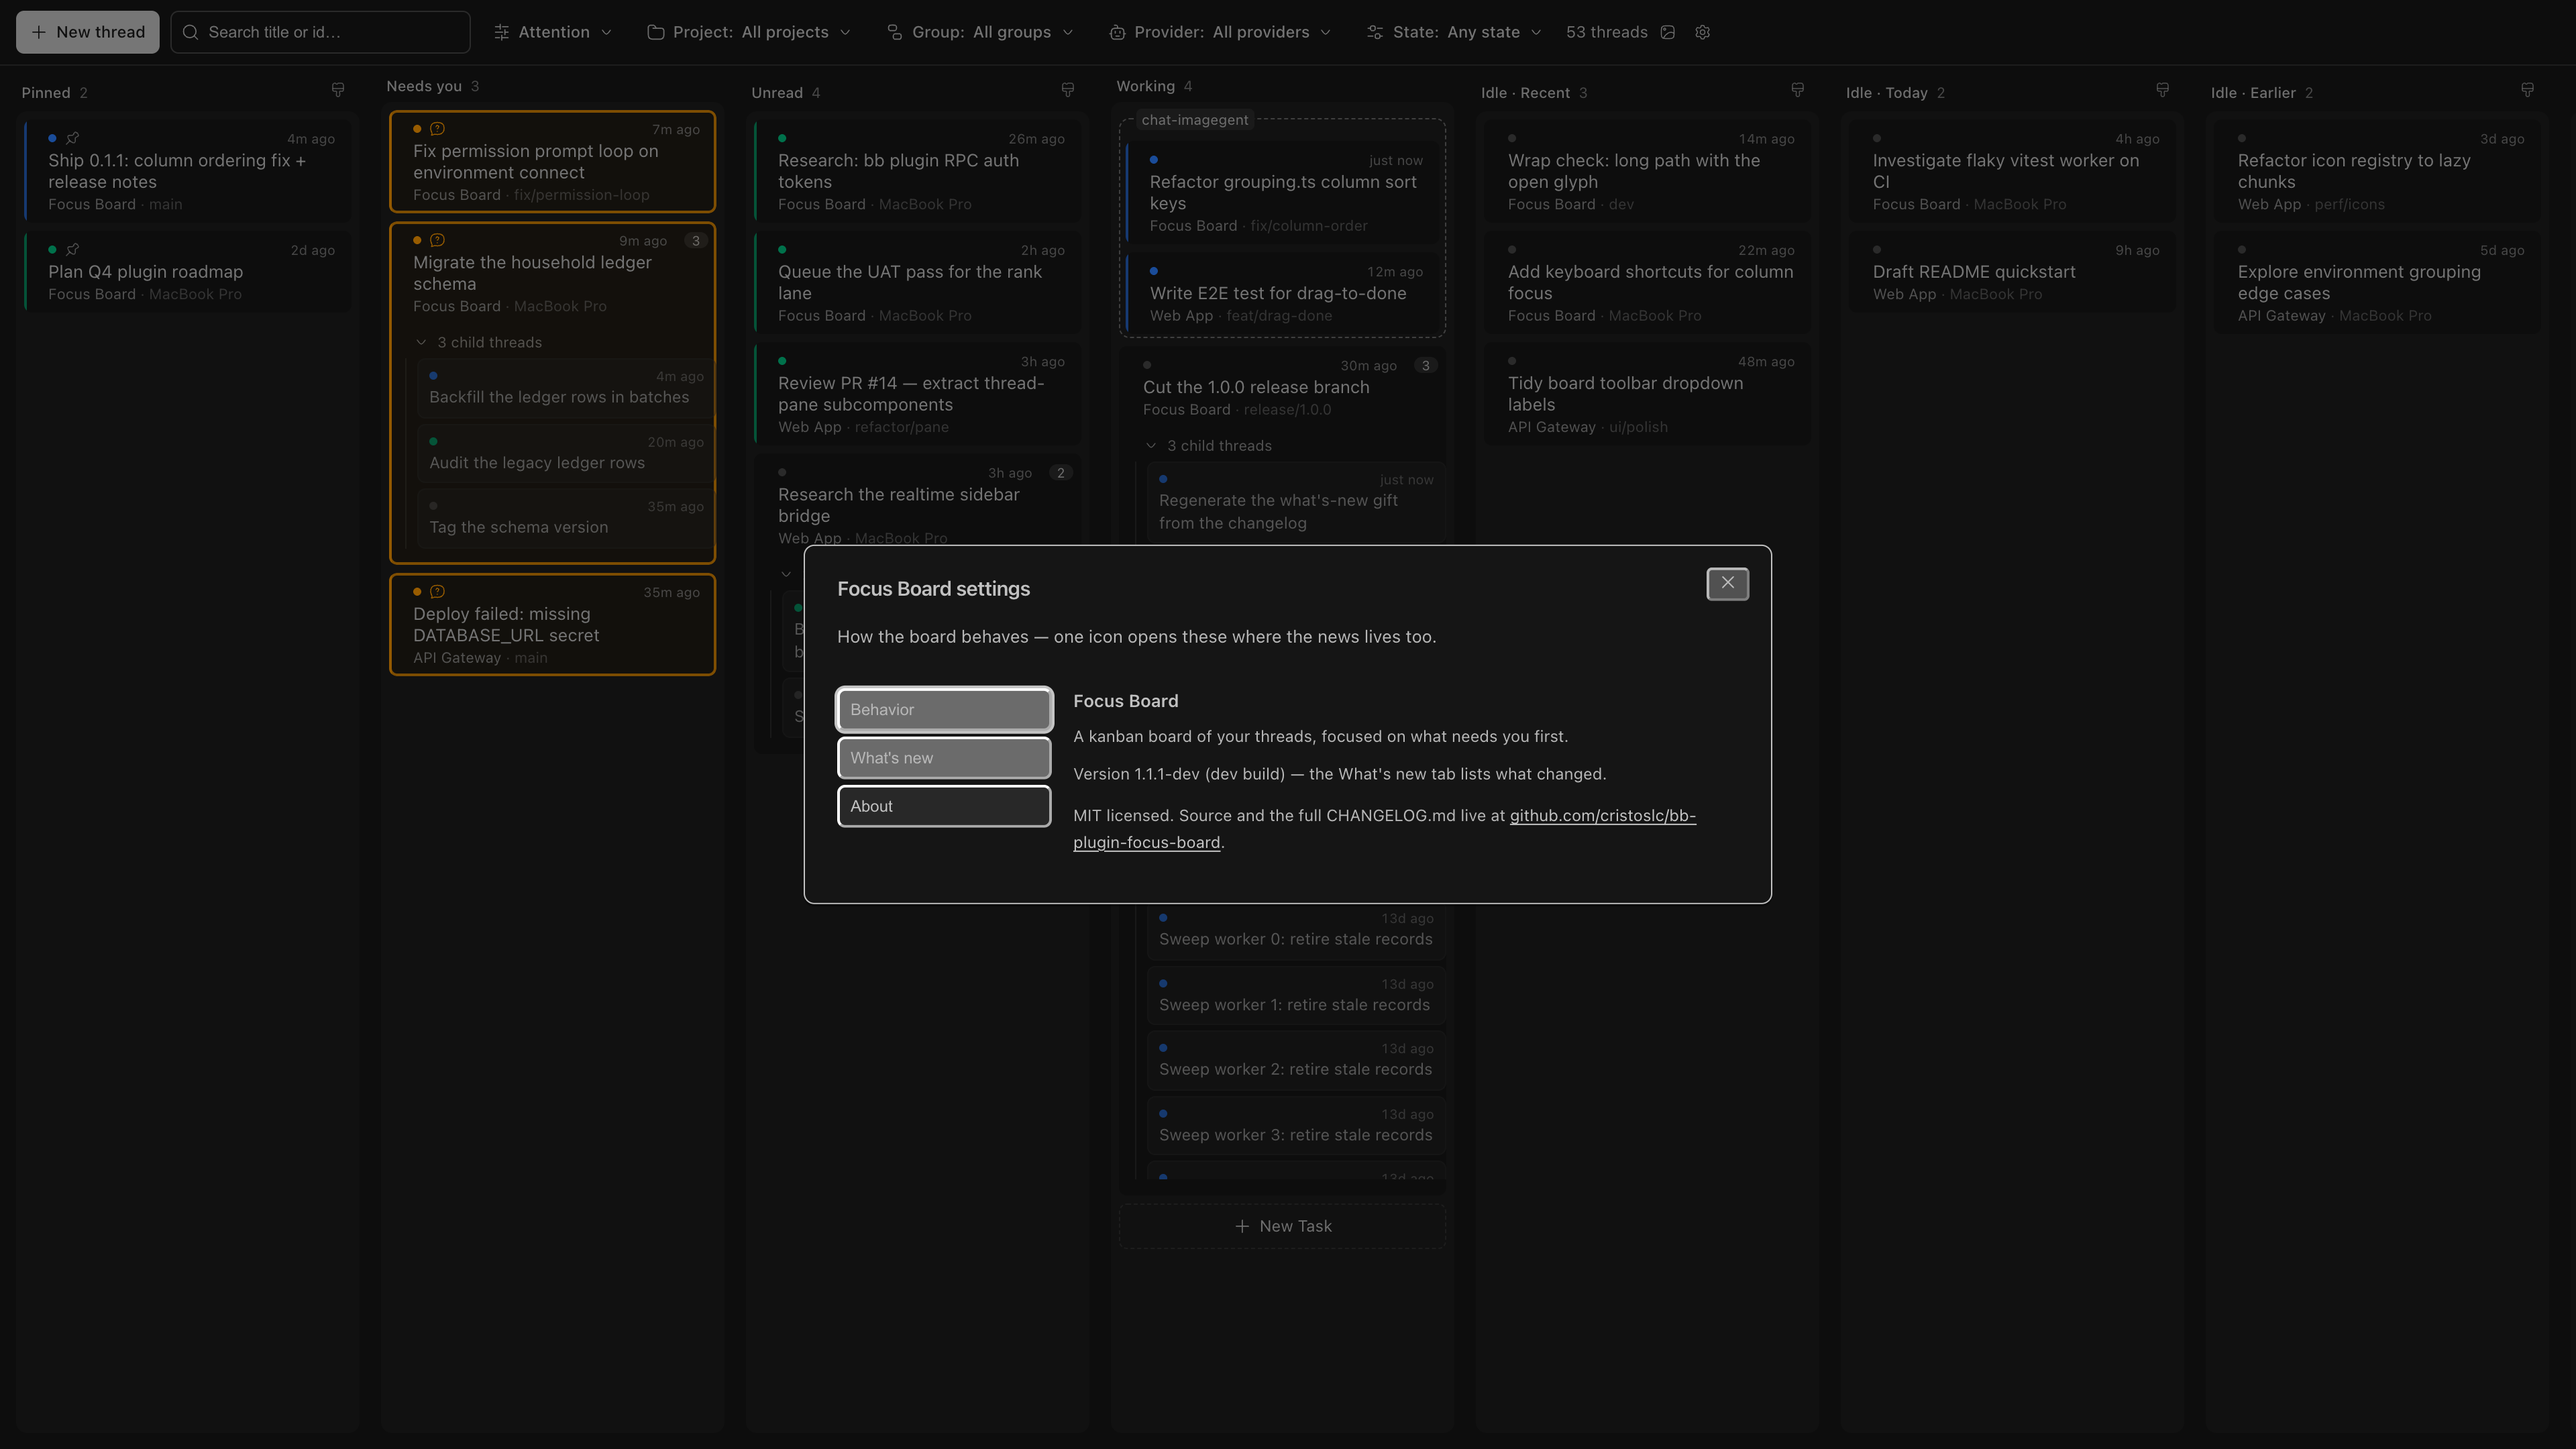
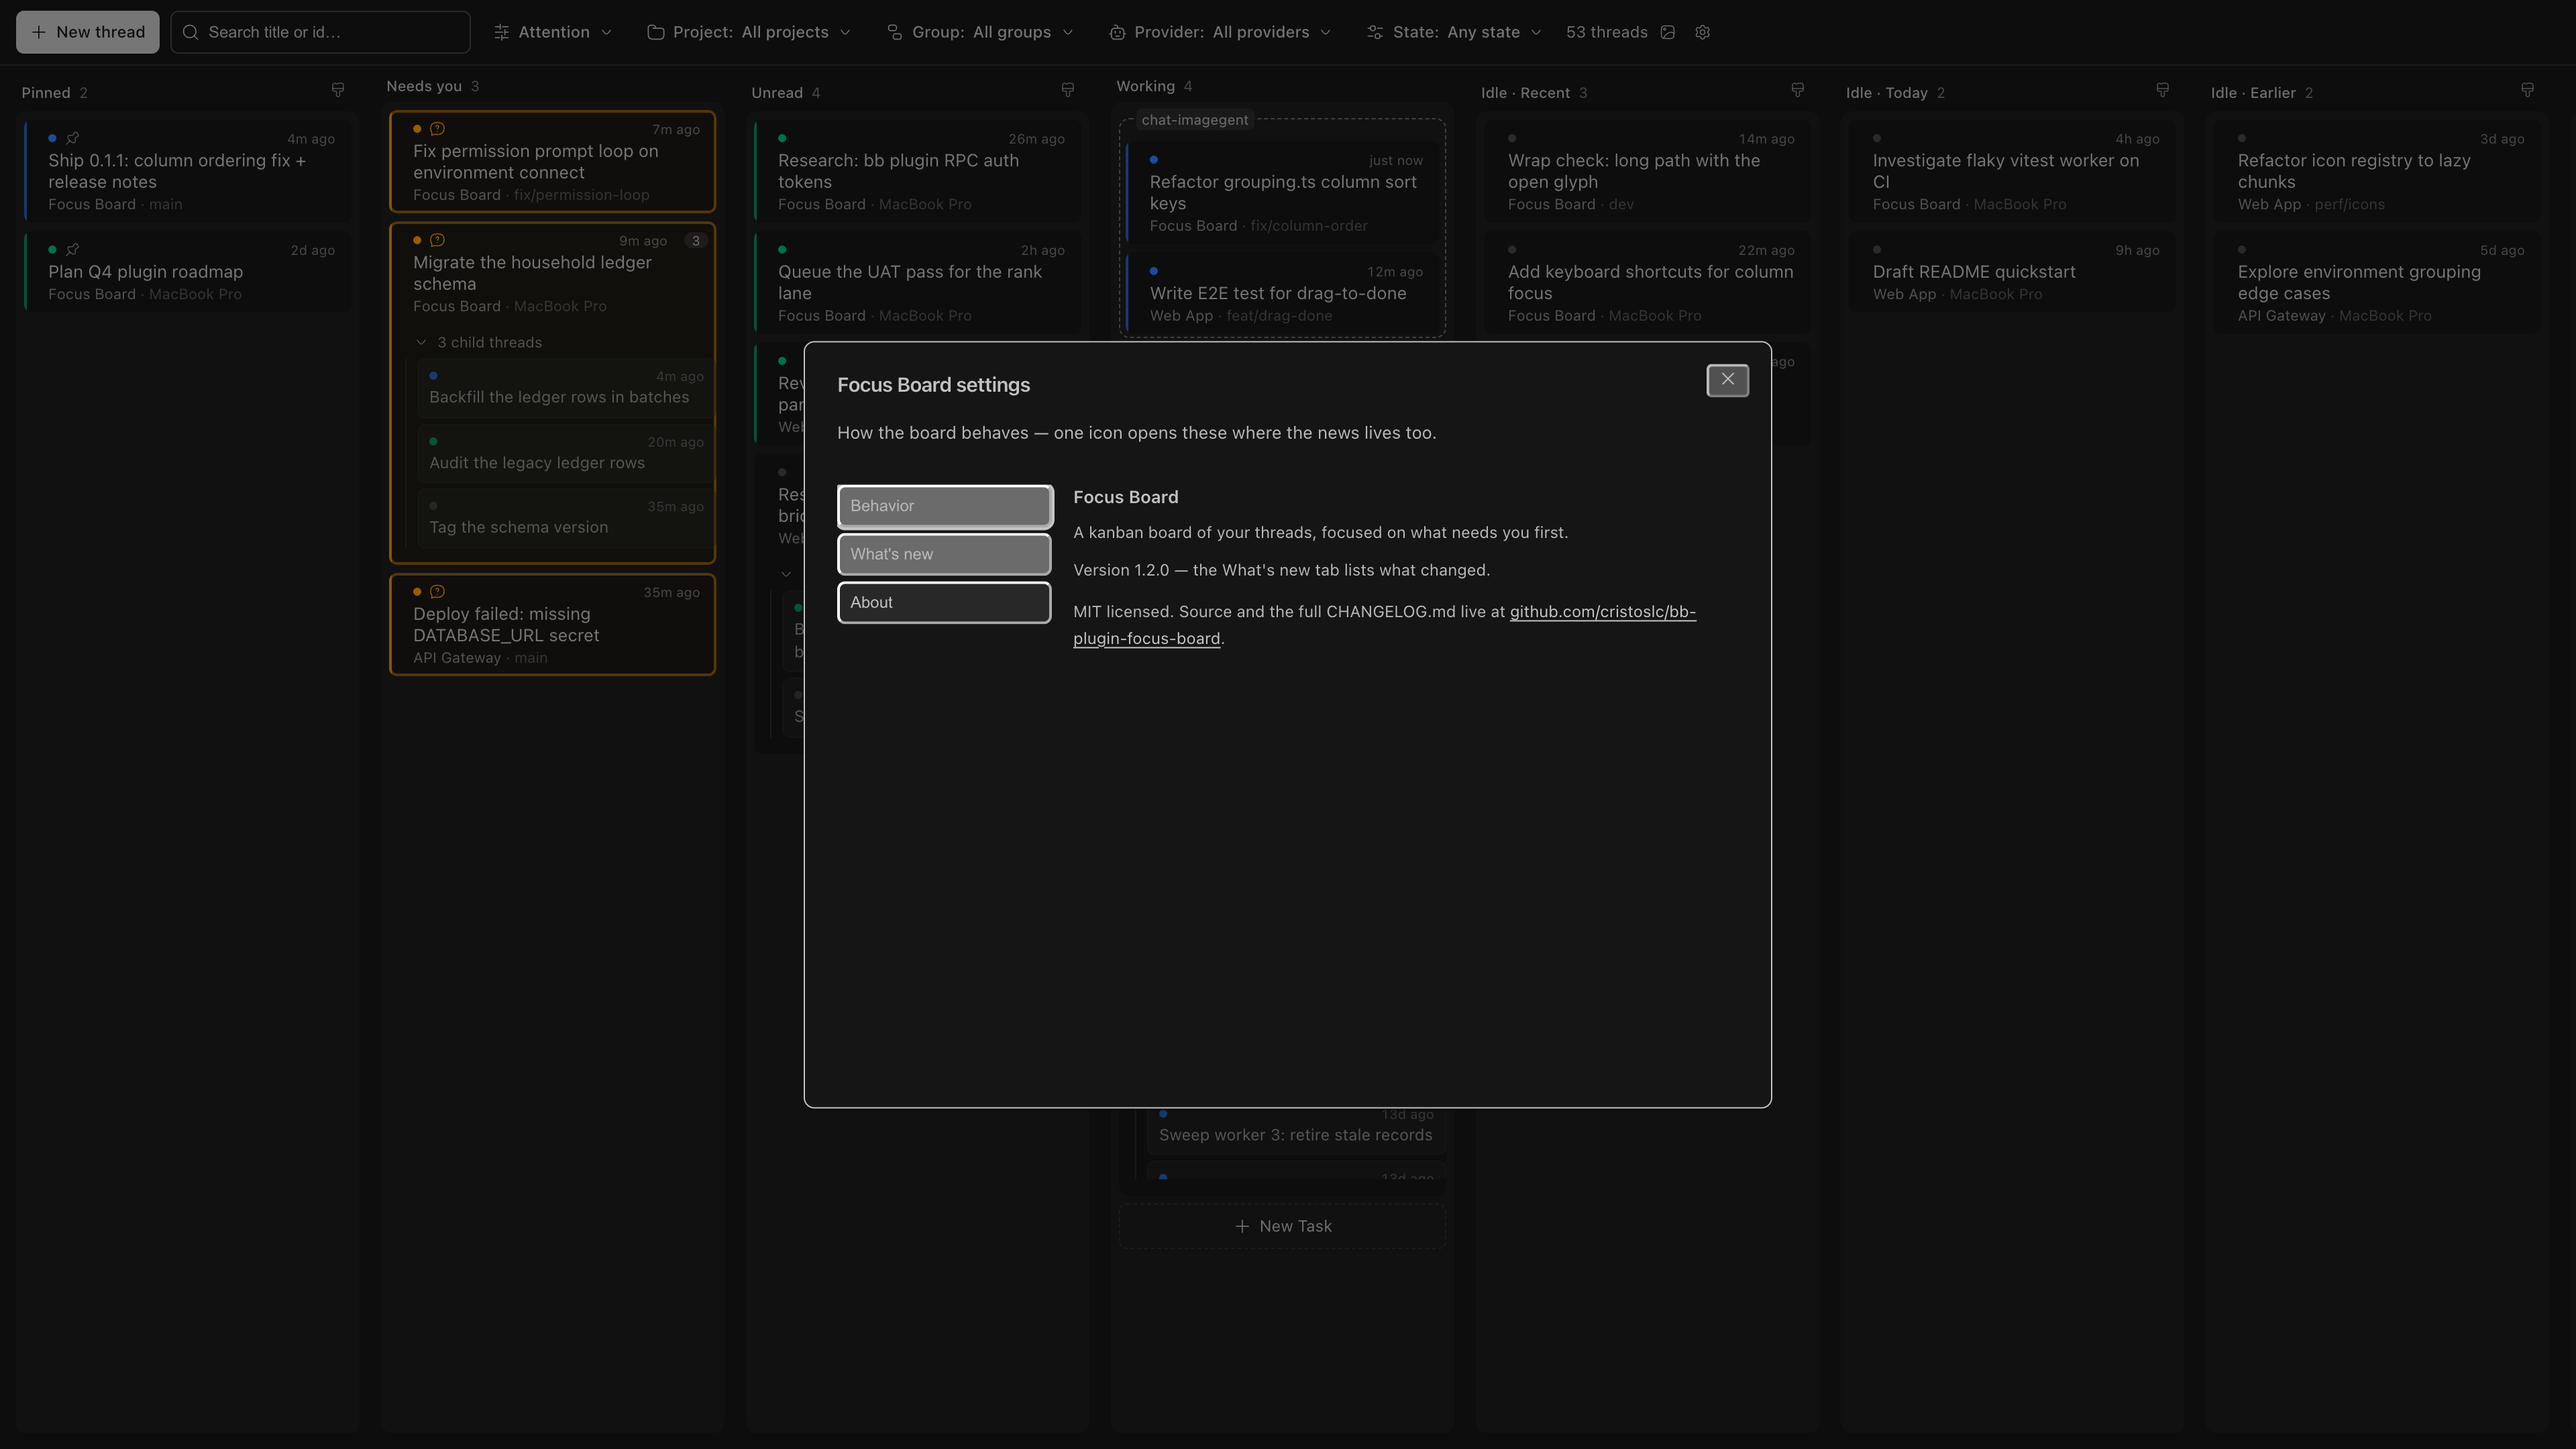
Settings modal: fixed body height so tab switches never resize the dialog
The body row (rail + pane) carries a fixed inline height; content flows
inside it and the tabpanel scrolls, so the tall What's-new feed no longer
grows the dialog and the short Behavior/About tabs no longer shrink it. The
feed's own per-tab max-h cap is gone with the scroll moved to the panel.
Pinned by two jsdom tests (fixed height identical across all three tabs;
feed carries no max-h) and a measured assert in the headless driver (same
dialog bounding box after switching through extremes). The driver's About
assertion goes parity-aware (dev-build mark only when the running version
carries a suffix) since the tree builds stable after the 1.2.0 finalize,
and its first pulse is the seeded upgrade state.

diff --git a/tests/settings-modal.test.tsx b/tests/settings-modal.test.tsx
@@ -195,4 +195,33 @@ describe("settings modal: shell", () => {
     renderModal({ open: false });
     expect(document.querySelectorAll('[role="tab"]').length).toBe(0);
   });
+
+  it("carries a fixed body height on every tab — switching does not resize the modal", () => {
+    // The rail+pane row declares its height as an inline fixed dimension
+    // (data-settings-body); jsdom has no layout, so the contract is the
+    // dimension itself, identical for the short Behavior/About tabs and the
+    // tall What's-new tab. Content scrolls inside the fixed frame instead
+    // of growing it.
+    const height = (tab: SettingsTab): string => {
+      renderModal({ tab });
+      const body = document.querySelector<HTMLElement>('[data-settings-body]');
+      if (body === null) throw new Error("modal body not found");
+      const value = body.style.height;
+      cleanup();
+      return value;
+    };
+    const behaviorHeight = height("behavior");
+    expect(behaviorHeight).toMatch(/^\d+px$/);
+    expect(height("whats-new")).toBe(behaviorHeight);
+    expect(height("about")).toBe(behaviorHeight);
+  });
+
+  it("the What's-new feed flows into the fixed body — its own per-tab height cap is gone", () => {
+    renderModal({ tab: "whats-new" });
+    const feed = document.querySelector<HTMLElement>('[data-whats-new-feed]');
+    expect(feed).not.toBeNull();
+    // The old max-h-[55vh] cap made each tab size itself; the fixed body
+    // carries the scroll now.
+    expect(feed?.className).not.toContain("max-h-");
+  });
 });

diff --git a/components/settings-modal.tsx b/components/settings-modal.tsx
@@ -68,7 +68,11 @@ export function SettingsModal({
             How the board behaves — one icon opens these where the news lives too.
           </DialogDescription>
         </DialogHeader>
-        <div className="flex min-w-0 gap-4">
+        <div
+          data-settings-body
+          style={{ height: "440px" }}
+          className="flex min-w-0 gap-4 overflow-hidden"
+        >
           <div
             role="tablist"
             aria-label="Focus Board settings sections"
@@ -92,7 +96,7 @@ export function SettingsModal({
               </button>
             ))}
           </div>
-          <div role="tabpanel" className="min-w-0 flex-1">
+          <div role="tabpanel" className="min-w-0 flex-1 overflow-y-auto pr-1">
             {tab === "behavior" && (
               <EscStopsRunningRow
                 storedValue={escStopsRunningThread}

diff --git a/components/whats-new-feed.tsx b/components/whats-new-feed.tsx
@@ -19,7 +19,7 @@ export function WhatsNewFeed({ entries }: { entries: readonly WhatsNewEntry[] })
           ? `You are on version ${APP_VERSION}.`
           : "Recent changes since you last looked."}
       </p>
-      <div className="mt-3 max-h-[55vh] min-h-0 overflow-y-auto">
+      <div className="mt-3" data-whats-new-feed>
         {entries.map((entry) => (
           <section key={entry.version} className="mb-3 last:mb-0">
             <h3 className="mb-1 text-xs font-semibold text-foreground">

diff --git a/docs/uat/whats-new.md b/docs/uat/whats-new.md
@@ -1,6 +1,6 @@
 # UAT report
 
-_Generated 2026-10-10T21:06:12.533Z by `npm run uat`._
+_Generated 2026-10-11T00:38:51.045Z by `npm run uat`._
 
 ## whats-new
 
